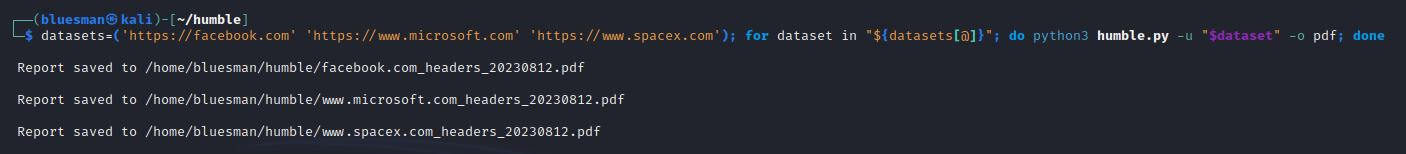
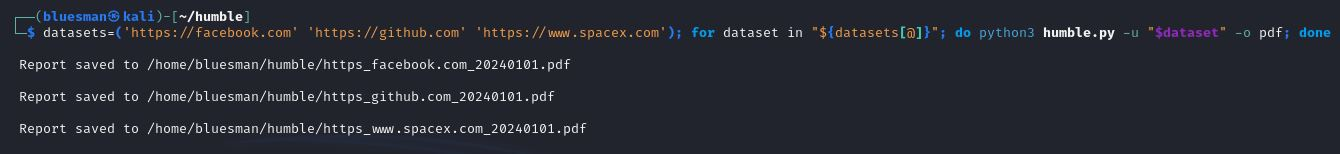
Minor: Update README and screenshots

diff --git a/humble.py b/humble.py
@@ -95,7 +95,7 @@ URL_S = ' URL  : '
 
 export_date = datetime.now().strftime("%Y%m%d")
 now = datetime.now().strftime("%Y/%m/%d - %H:%M:%S")
-version = datetime.strptime('2023-12-31', '%Y-%m-%d').date()
+version = datetime.strptime('2024-01-01', '%Y-%m-%d').date()
 
 
 class PDF(FPDF):

diff --git a/README.md b/README.md
@@ -4,7 +4,7 @@
 <a target="_blank" href="https://www.python.org/downloads/" title="Minimum Python version required to run this tool"><img src="https://img.shields.io/badge/Python-%3E%3D3.9-blue?labelColor=343b41"></a>
 <a target="_blank" href="LICENSE" title="License of this tool"><img src="https://img.shields.io/badge/License-MIT-blue.svg?labelColor=343b41"></a>
 <a target="_blank" href="https://github.com/rfc-st/humble/releases" title="Latest release of this tool"><img src="https://img.shields.io/github/v/release/rfc-st/humble?display_name=release&label=Latest%20release&labelColor=343b41"></a>
-<a target="_blank" href="https://github.com/rfc-st/humble/commits/master" title="Latest commit of this tool"><img src="https://img.shields.io/badge/Latest_Commit-2023--12--31-blue.svg?labelColor=343b41"></a>
+<a target="_blank" href="https://github.com/rfc-st/humble/commits/master" title="Latest commit of this tool"><img src="https://img.shields.io/badge/Latest_Commit-2024--01--01-blue.svg?labelColor=343b41"></a>
 <a target="_blank" href="https://github.com/rfc-st/humble/actions?query=workflow%3ACodeQL" title="Results of the last analysis of this tool with CodeQL"><img src="https://github.com/rfc-st/humble/workflows/CodeQL/badge.svg"></a>
 <a target="_blank" href="https://owasp.org/www-project-secure-headers/#div-technical" title="Official tool in OWASP Secure Headers Project"><img src="https://img.shields.io/badge/OWASP-Tool-blue?labelColor=343b41"></a>
 <a target="_blank" href="https://www.kali.org/tools/humble/" title="Official tool in Kali Linux"><img src="https://img.shields.io/badge/Kali%20Linux-Tool-blue?labelColor=343b41"></a>
@@ -243,7 +243,7 @@ $ python3 humble.py -u https://block.fiverr.com | grep -A1 -B5 'Note : \|Nota : 
 .: (Linux) - Analyze multiple URLs and save the results as PDFs.<br />
 
 ```
-$ datasets=('https://facebook.com' 'https://www.microsoft.com' 'https://www.spacex.com'); for dataset in "${datasets[@]}"; do python3 humble.py -u "$dataset" -o pdf; done
+$ datasets=('https://facebook.com' 'https://github.com' 'https://www.spacex.com'); for dataset in "${datasets[@]}"; do python3 humble.py -u "$dataset" -o pdf; done
 ```
 <img src="https://github.com/rfc-st/humble/blob/master/screenshots/humble_adv_linux_5.jpg" alt="Analyze multiple URLs and save the results as PDFs">
 
